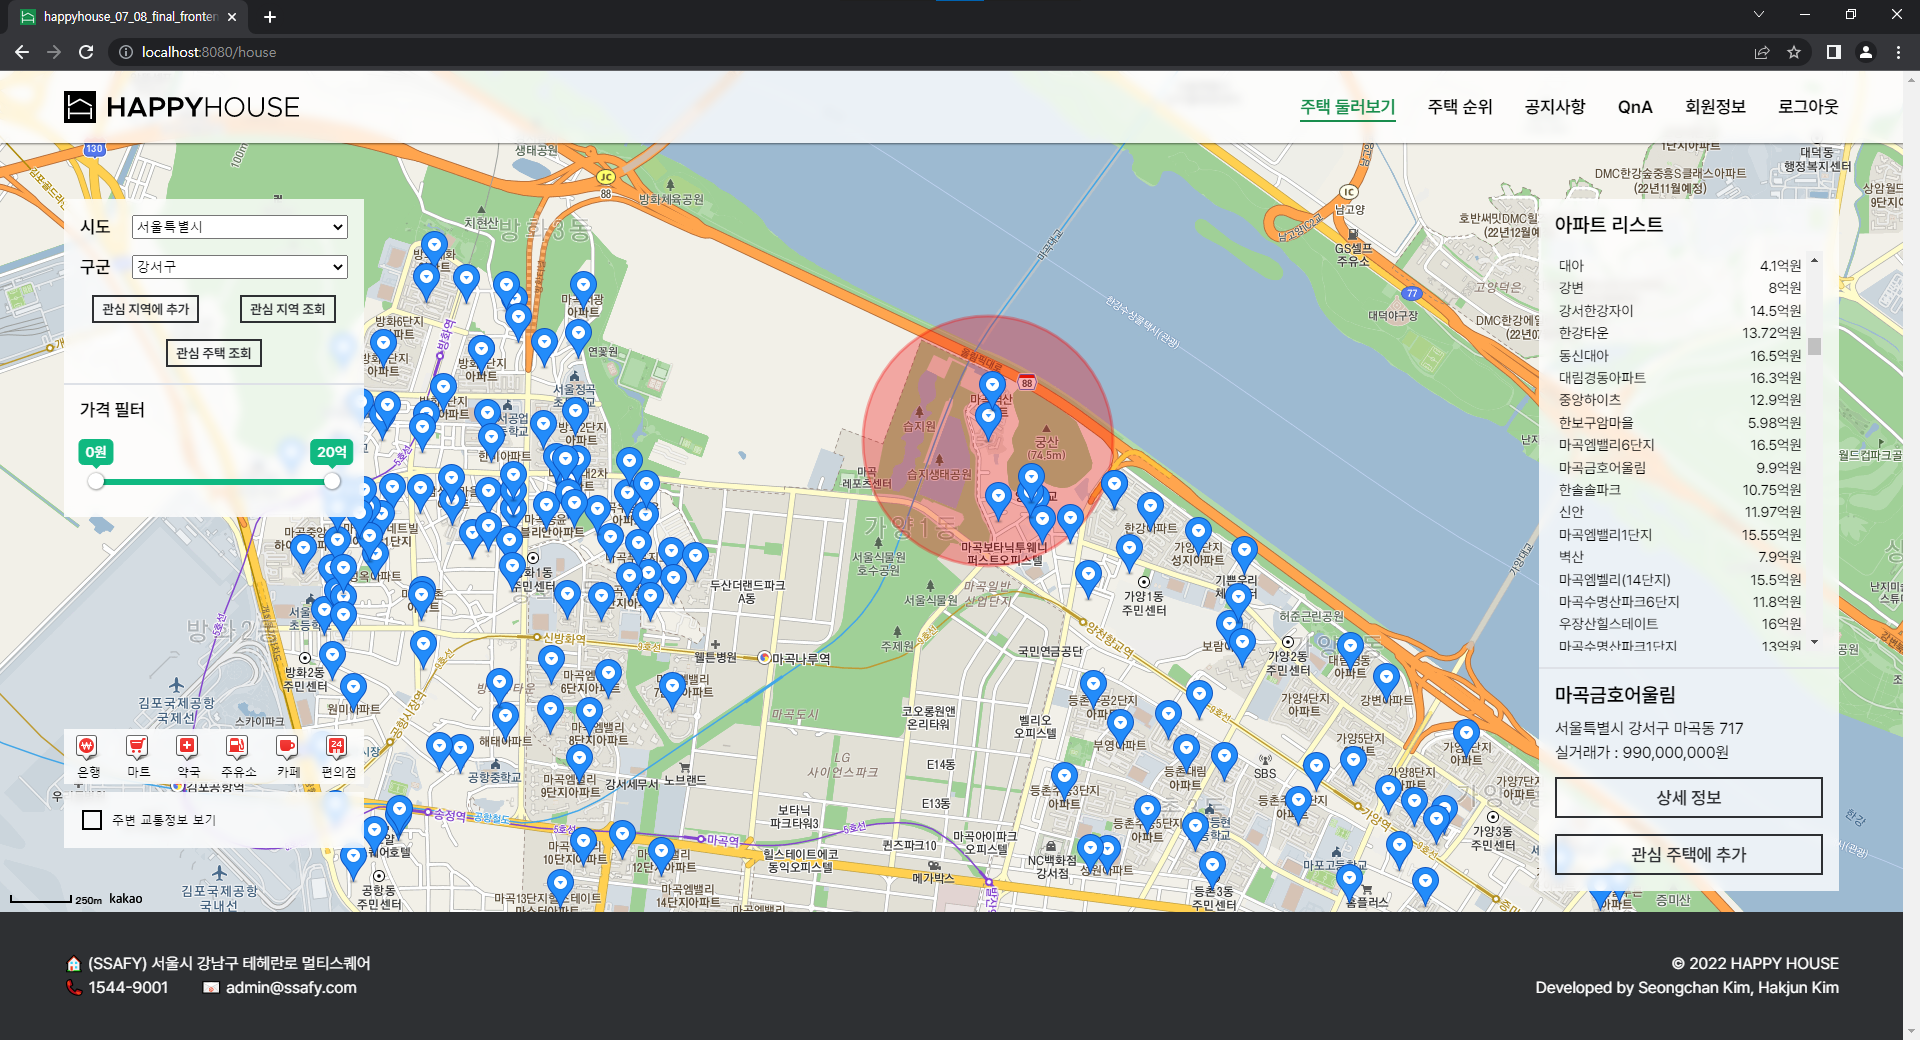
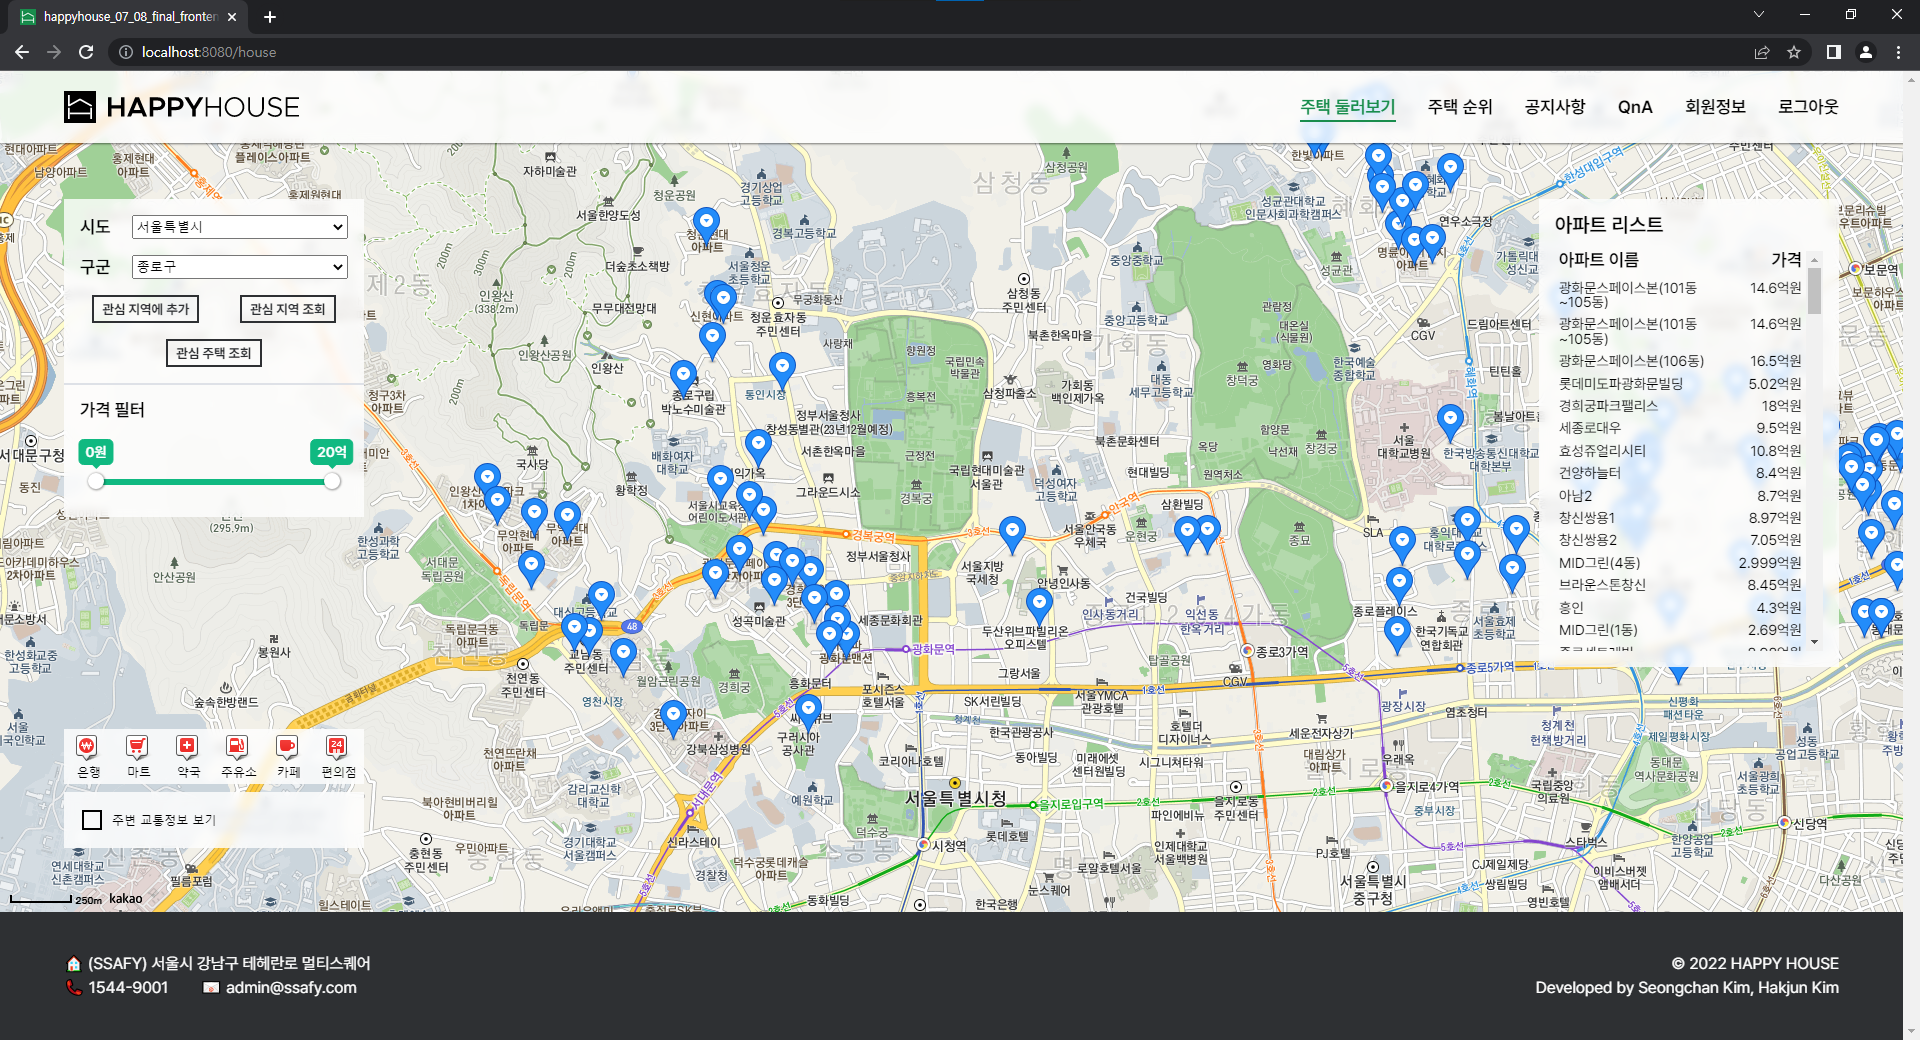
docs(project): 주택 실거래가 조회 문단 작성

diff --git a/content/projects/happyhouse.md b/content/projects/happyhouse.md
@@ -13,7 +13,7 @@ isTeamProject: true
 
 **사용자 맞춤형 주택 실거래가 정보 서비스**를 만드는 것을 목표로 프로젝트를 수행했습니다. 
 
-프로젝트 자체는 학기를 진행하면서 천천히 만들어 나갔기 때문에 주택 실거래가 조회와 같은 주요 기능은 이미 완성이 된 상태였지만, 2인 1조로 페어를 짜서 프로젝트에 살을 붙일 때마다 매번 페어가 바뀌었고, 각자 팀에서 구현한 기능이나 컨벤션, 변수 및 함수 이름과 파일명 등의 차이가 계속해서 생길 수밖에 없었습니다. 차이를 줄이면서 기능을 더 많이 구현한 페어의 소스 코드에 맞추기 위해 기존의 코드를 매번 수정하는 작업을 거쳤지만, 갈수록 코드는 더러워지고, 기능도 어설프게 구현되었다는 것을 최종 프로젝트 개발 기간에 다다라서야 깨달았습니다. 결국 기존 작업물을 갈아엎고 주요 기능부터 하나씩 만들어보기로 했습니다.
+프로젝트 자체는 커리큘럼을 진행하면서 천천히 만들어 나갔기 때문에 주택 실거래가 조회와 같은 주요 기능은 이미 완성이 된 상태였지만, 2인 1조로 페어를 짜서 프로젝트에 살을 붙일 때마다 매번 페어가 바뀌었고, 각자 팀에서 구현한 기능이나 컨벤션, 변수 및 함수 이름과 파일명 등의 차이가 계속해서 생길 수밖에 없었습니다. 차이를 줄이면서 기능을 더 많이 구현한 페어의 소스 코드에 맞추기 위해 기존의 코드를 매번 수정하는 작업을 거쳤지만, 갈수록 코드는 더러워지고, 기능도 어설프게 구현되었다는 것을 최종 프로젝트 개발 기간에 다다라서야 깨달았습니다. 결국 기존 작업물을 갈아엎고 주요 기능부터 하나씩 만들어보기로 했습니다.
 
 저는 이 프로젝트에서 프론트엔드를 총괄했으며, 로그인 및 회원가입과 같은 회원 관리 파트와 관심 지역 및 주택 관리 기능, 주택 랭킹 페이지, 주택 거래 변동량 시각화 기능을 담당했습니다. 그리고 팀원과 공동으로 주택 실거래가 조회 기능, 공지사항 및 QnA 게시판을 구현했습니다.
 
@@ -25,7 +25,13 @@ isTeamProject: true
 
 ![주택 상세 정보 화면](/images/projects/happyhouse/details.png)
 
-작성 중
+본 프로젝트의 핵심 기능인 주택 실거래가 조회 기능입니다. 
+
+시/군/구 단위로 주소를 검색하면, 해당 지역에 존재하는 모든 상가나 아파트의 가장 최근 실거래가를 조회할 수 있습니다. 좌측 상단에서 조회할 주소의 시/도와 구/군을 선택하면, 우측 상단에 검색 결과 창이 뜨고, 검색된 아이템 하나를 클릭하면 우측 하단에 해당 주택의 이름과 상세 주소, 그리고 가장 최근의 실거래가를 확인할 수 있습니다. 그 아래는 `상세 정보` 버튼과 `관심 주택에 추가` 버튼이 있는데, 후자의 경우는 아래에서 자세히 설명하도록 하겠습니다.
+
+`상세 정보` 버튼을 클릭하면 두 번째 스크린샷과 같이 모달 창이 뜹니다. 상단 영역에서는 해당 주택의 이름과 상세 주소, 가장 최근 실거래가와 기타 정보(건축년도, 전용면적, 층수)를 확인할 수 있습니다. 그 아래로 두 개의 이미지를 볼 수 있는데, 원래는 주택마다 1~2개의 이미지를 받아서 보여줄 예정이었지만, 제공받은 DB에서는 이미지를 받아올 수 없어서 왼쪽에는 [Trianglify](https://github.com/qrohlf/trianglify)로 생성한 패턴 이미지를, 오른쪽에는 이미지가 존재하지 않을 경우에 뜨는 이미지를 표시하도록 했습니다. 이미지 영역 아래에는 평균 실거래가 변동률 그래프를 확인할 수 있는데, 이 부분도 아래에서 자세히 설명해 드리도록 하겠습니다. 맨 아래 영역의 `0명이 관심 있어 합니다.` 메시지는 이 주택에 대해 얼마나 많은 사람들이 관심 주택에 추가했는지 알려줍니다.
+
+원래는 주택 실거래가 정보를 공공 API로부터 직접 받아와서 사용할 예정이었지만, 데이터를 가공해서 DB로 제공해준 다른 팀 덕분에 DB를 거치는 방식으로 변경하게 되었습니다. (감사합니다!)
 
 ### 가격대 기준 검색
 
